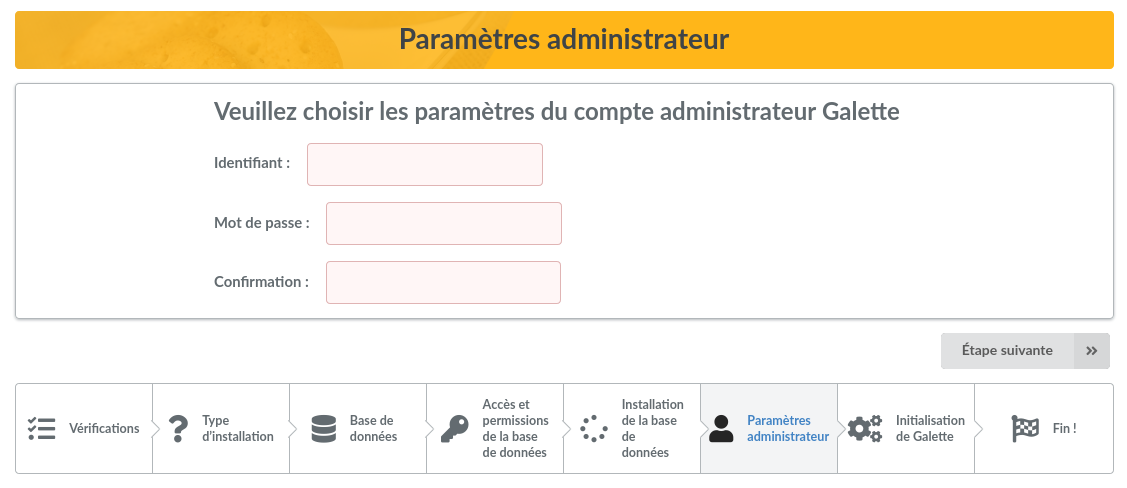
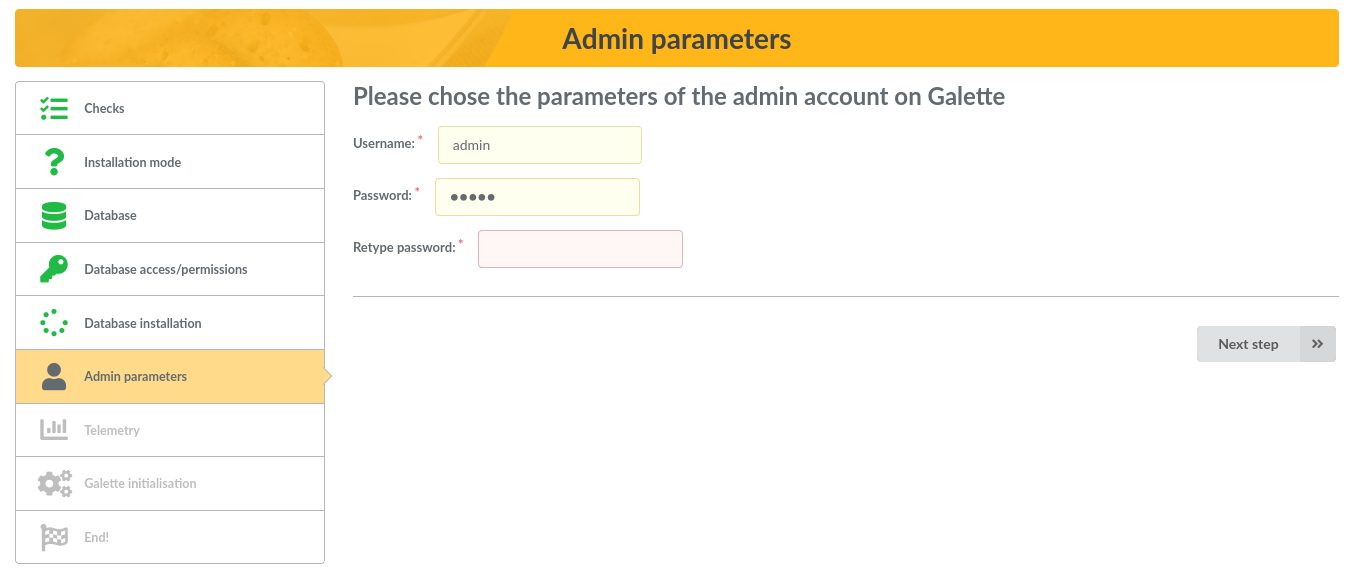
Installation steps changed, telemetry step added

diff --git a/source/installation/galette.rst b/source/installation/galette.rst
@@ -138,6 +138,16 @@ Next screen will ask you for information to create the Galette super admin user.
    :scale: 50%
    :align: center
 
+Telemetry
+=========
+
+To know more about Galette installed instances, we try to collect anonymous telemetry data. You can also register as a Galette user :)
+
+.. image:: ../_styles/static/images/installation/7_telemetry.png
+   :scale: 50%
+   :align: center
+
+
 Initialize
 ==========
 
@@ -153,18 +163,22 @@ The last step will write the configuration file if needed, and initialyse some v
 
 When updating, only the missing preferences and the new default data if any will be handled.
 
+.. image:: ../_styles/static/images/installation/8_initialization.png
+   :scale: 50%
+   :align: center
+
 Installation end
 ================
 
 Installation is now finished, congratulations!
 
-.. image:: ../_styles/static/images/installation/8_the_end.png
+.. image:: ../_styles/static/images/installation/9_the_end.png
    :scale: 50%
    :align: center
 
 You can now login to Galette, using super admin information you used at installation time. You can now go to the :doc:`Galette user manual <../usermanual/index>`.
 
-.. image:: ../_styles/static/images/installation/9_login.png
+.. image:: ../_styles/static/images/installation/10_login.png
    :scale: 50%
    :align: center
 
